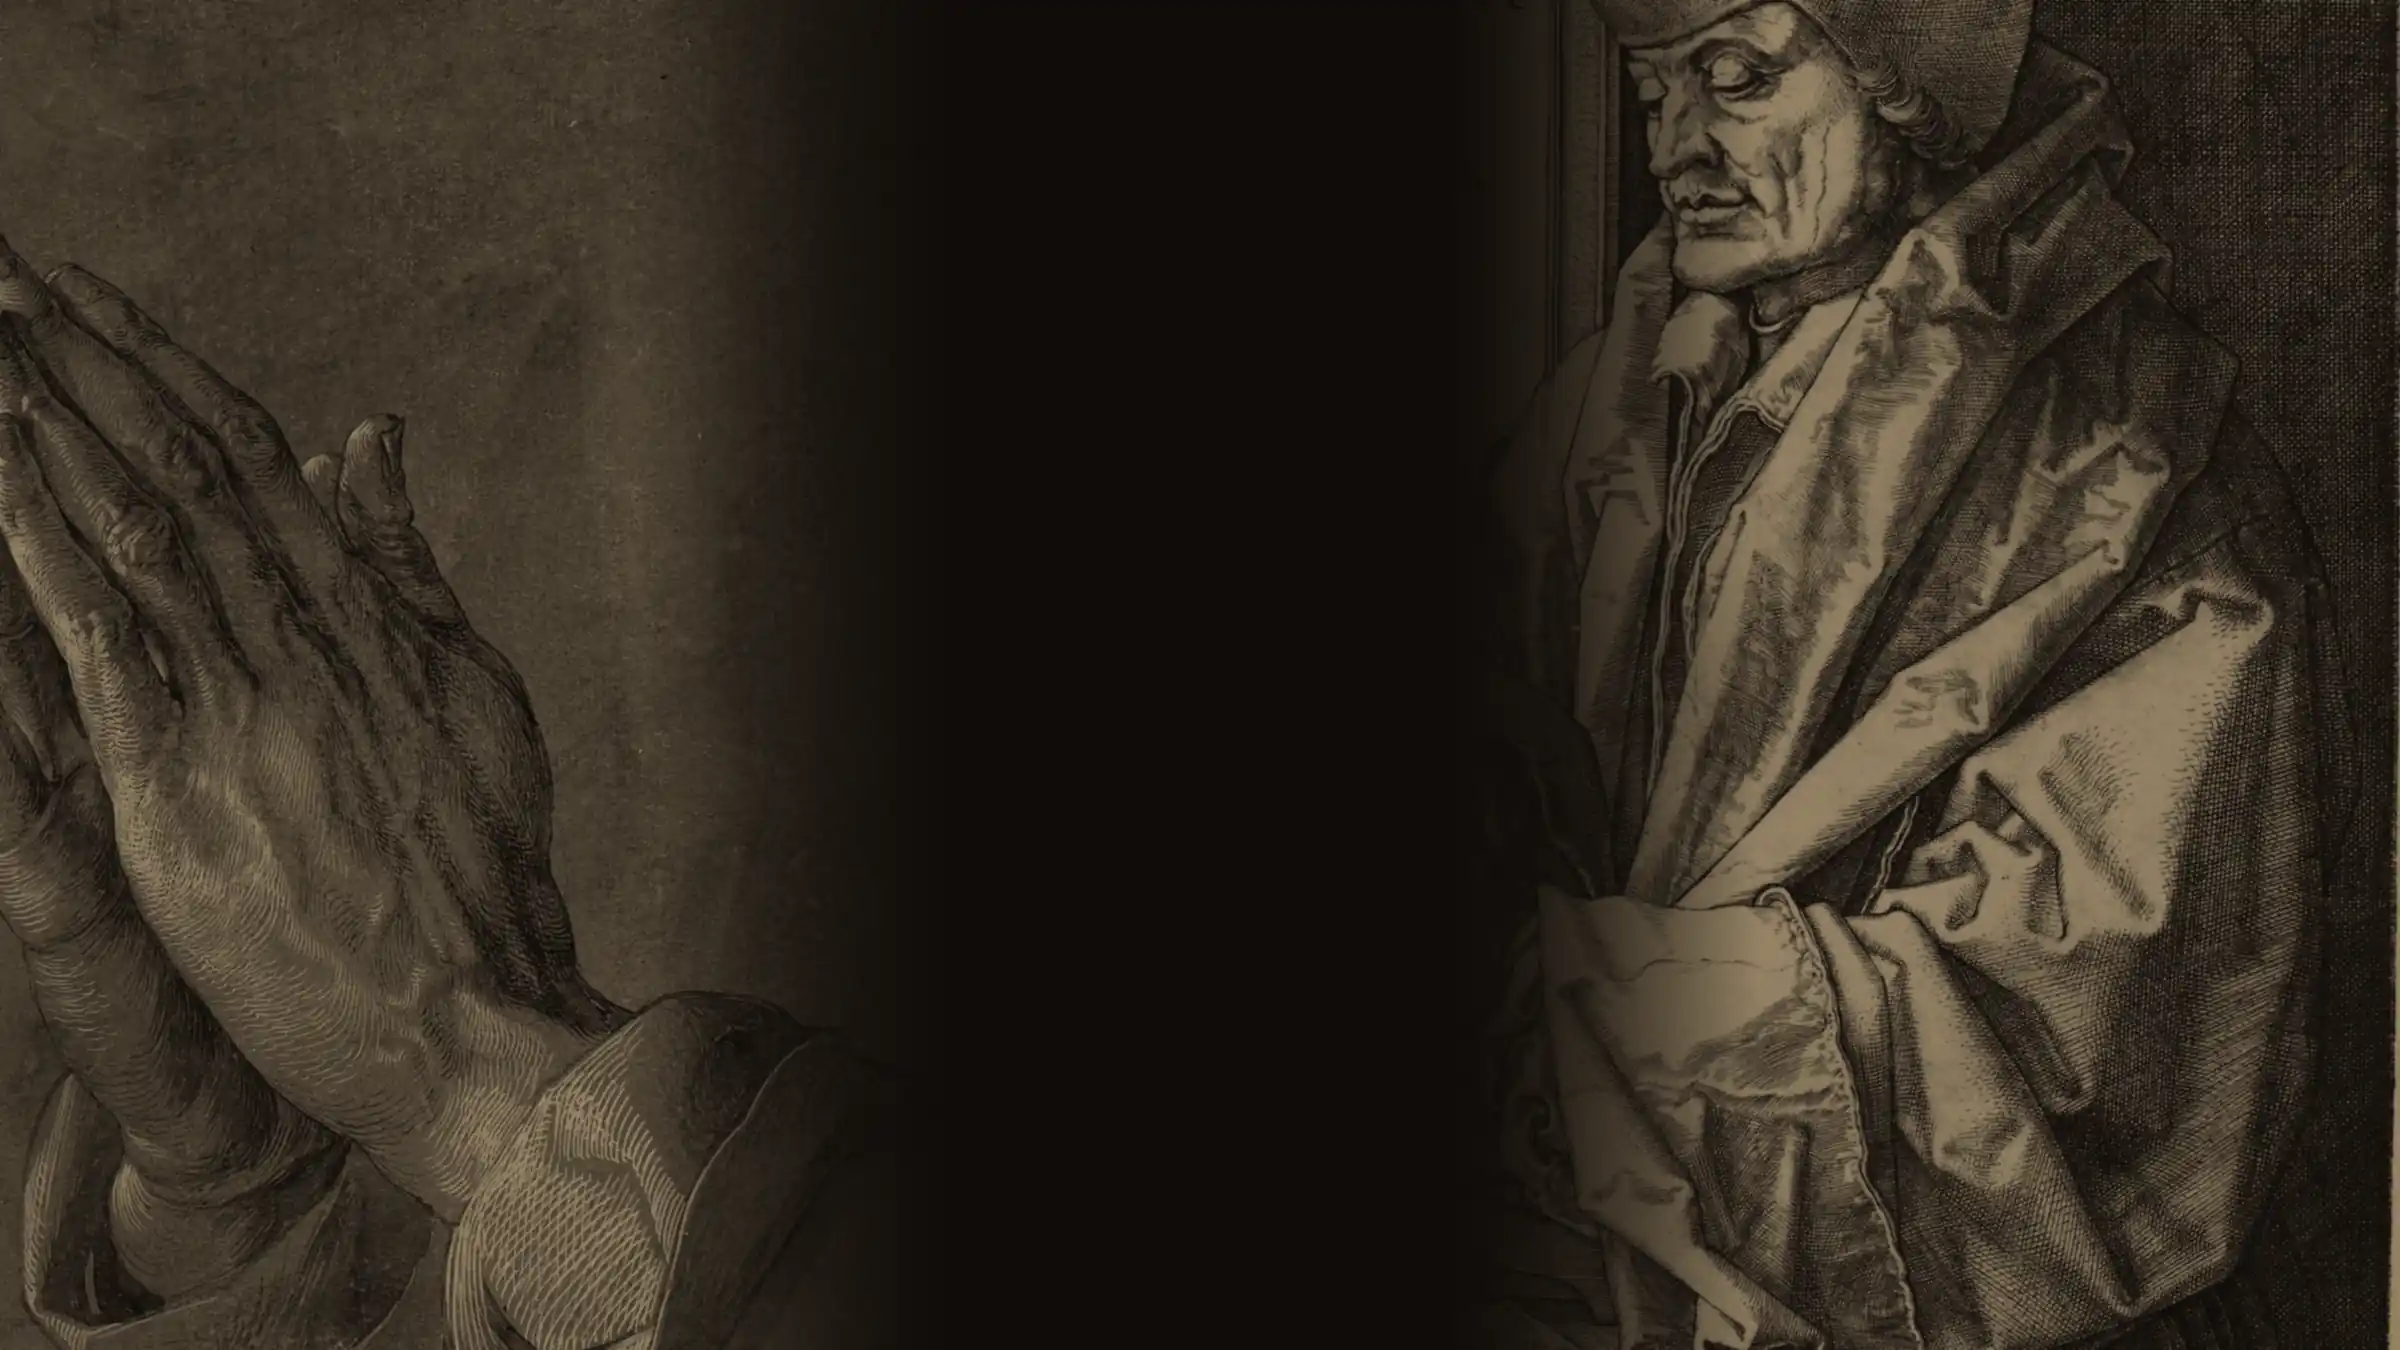
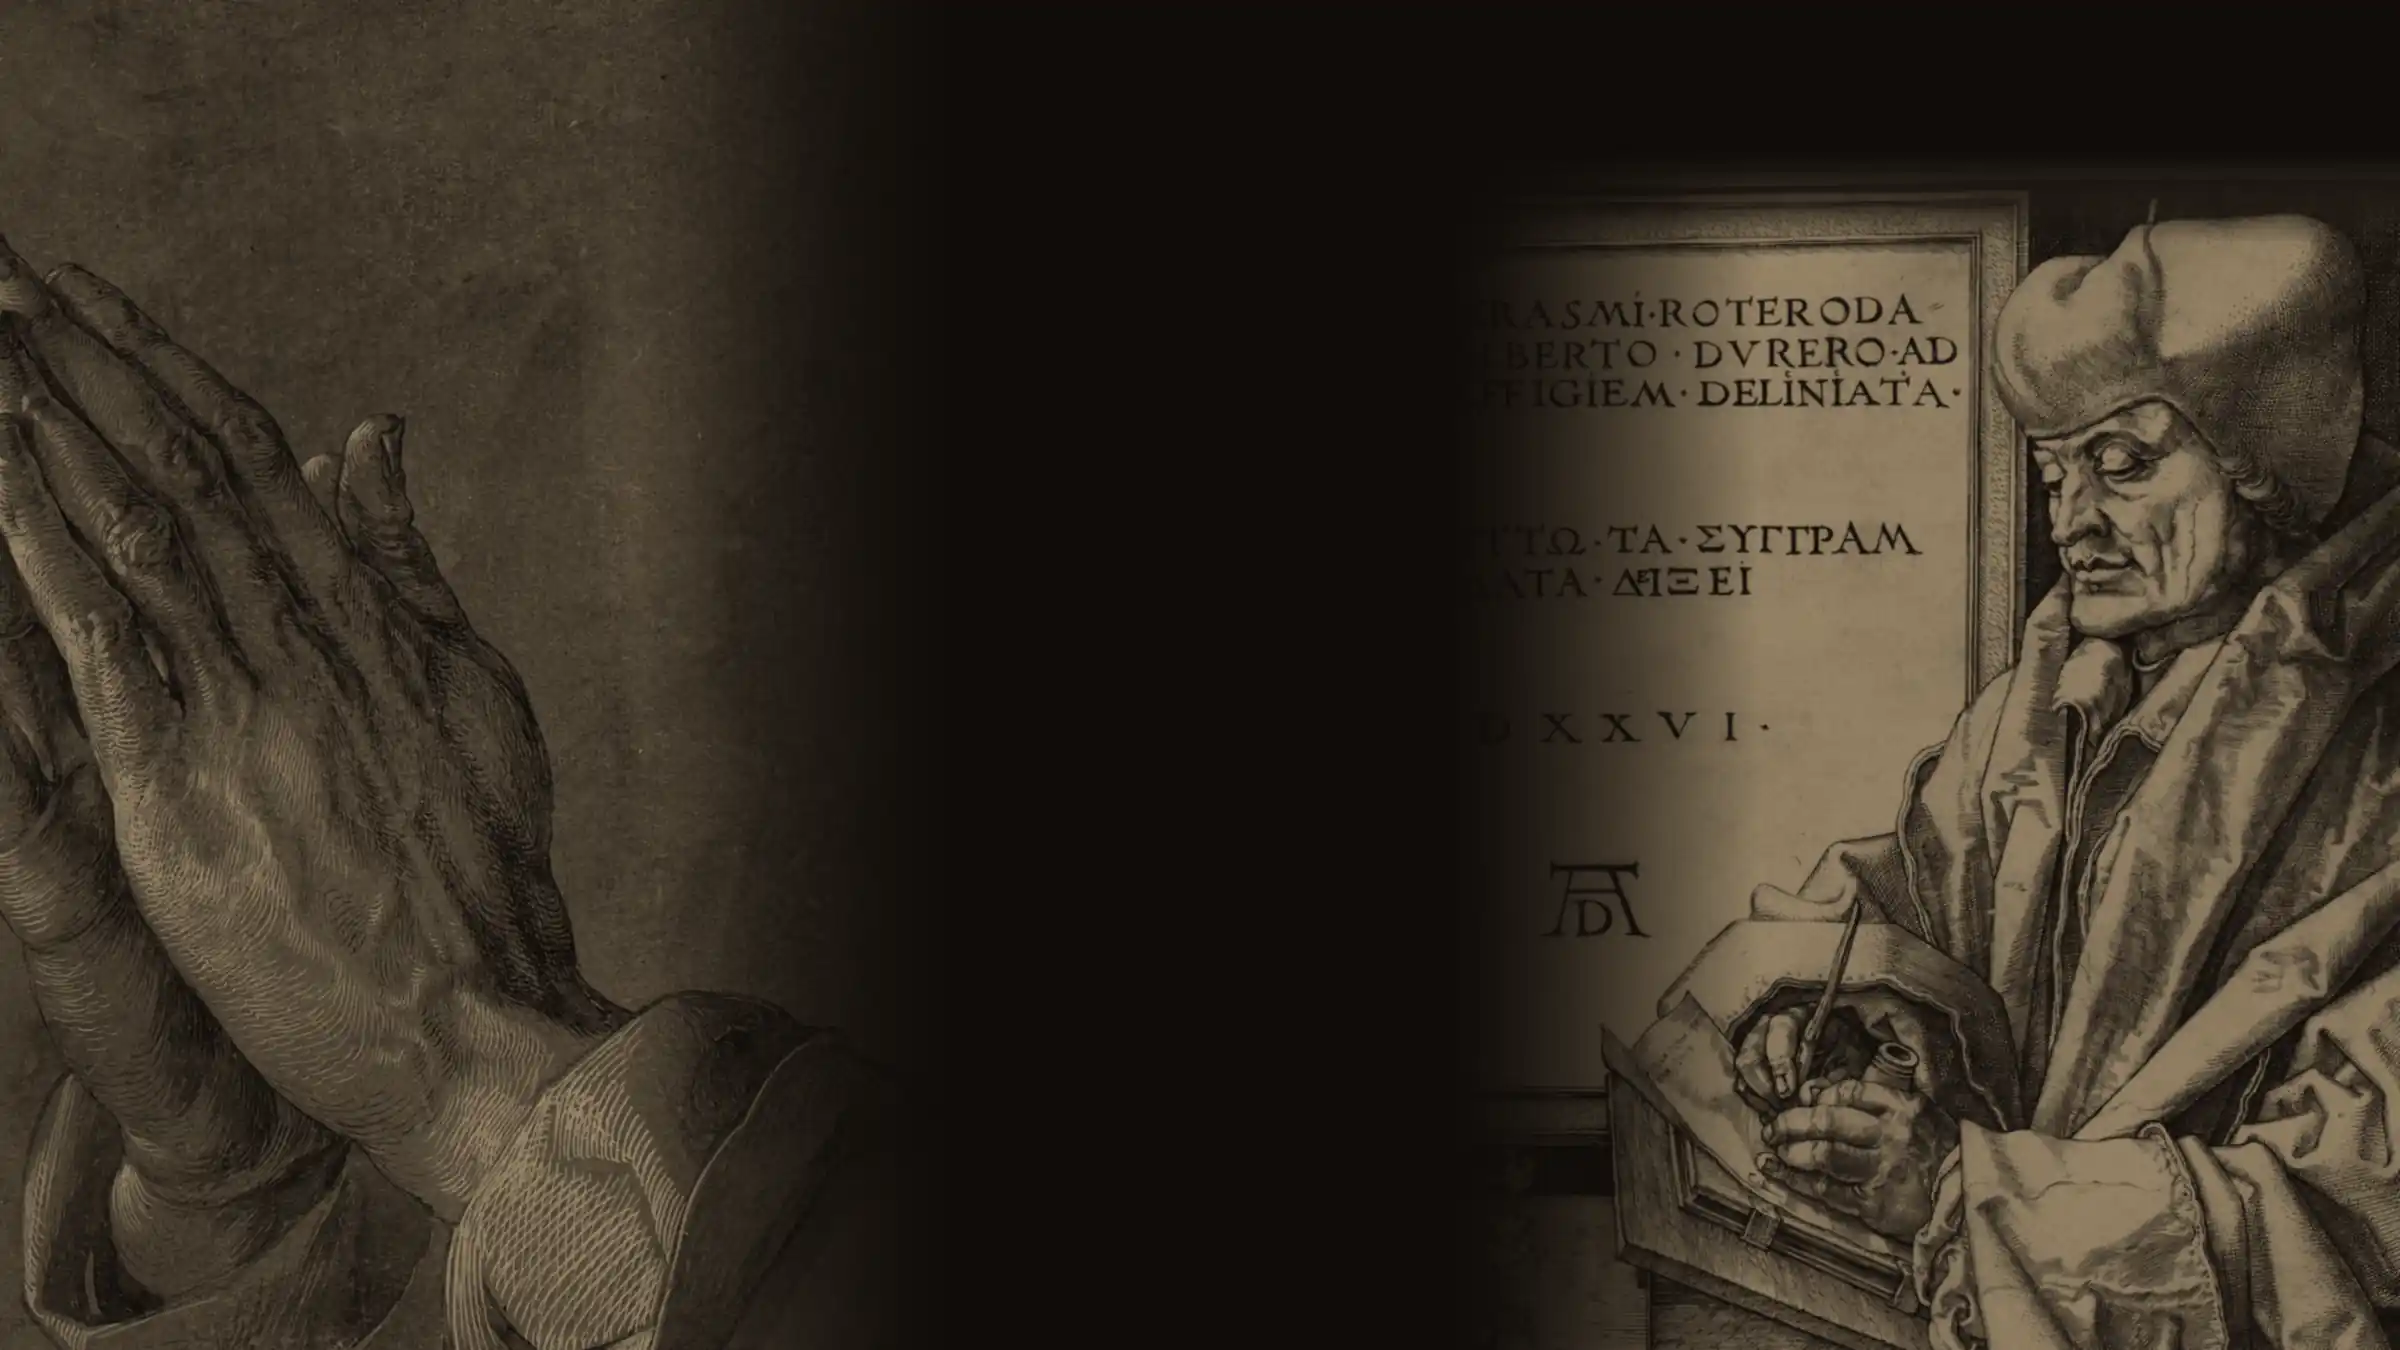
fix(art): QA 5707271934 — Erasmus whole below the header, both Dürers whole in the margins at the real column, You 1600 file at 1600x1000, face-box test
- Messages right panel re-cropped so Erasmus's whole head sits below the sticky header at 1600-2560.
- You: the boy (Self-Portrait at Thirteen) moved into the left margin and Dürer 1500 into the right,
  measured against the real 60rem/18px column; where a panel runs past the scan it fades to the dark ground.
- plate-you-A.webp now ships at 1600x1000 (Lanczos from the 1453px scan) instead of 1365x853.
- art-two-sides.test: head boxes for Messages, You, Groups, Desk (from 1600) and Week (from 1920) must sit whole
  in a margin, below the header, off the column (read from the sheets) and the fade at 1600/1700/1920/2560.

Changed region(s): [[0.6562, 0.0, 1.0, 1.0]]

diff --git a/src/lib/board/art-two-sides.test.ts b/src/lib/board/art-two-sides.test.ts
@@ -17,7 +17,8 @@ const sheets = [...root.matchAll(/href: "\/([a-z-]+\.css)"/g)].map((m) => read(`
 const ON_LIST = /^(Gustave Doré|John Martin|Albrecht Dürer|Arthur Rackham|John Bauer)$/;
 
 type Panel = { artist: string; work: string; box: [number, number, number, number] };
-/** What each edge of each wide plate shows: source work and crop box (x0, y0, x1, y1, as fractions of the scan). */
+/** What each edge of each wide plate shows: source work and crop box (x0, y0, x1, y1, as fractions of the scan;
+ *  below 0 or above 1 where the panel runs past the scan and fades to the dark ground). */
 const PLATES: Record<string, { left: Panel; right: Panel }> = {
   "plate-week-A-2400.webp": {
     left: { artist: "Gustave Doré", work: "Jacob's Dream", box: [0.109, 0.5, 0.55, 1.0] },
@@ -45,11 +46,11 @@ const PLATES: Record<string, { left: Panel; right: Panel }> = {
   },
   "plate-messages-A-2400.webp": {
     left: { artist: "Albrecht Dürer", work: "Praying Hands", box: [0.138, 0.1, 0.862, 0.8] },
-    right: { artist: "Albrecht Dürer", work: "Erasmus of Rotterdam", box: [0.487, 0.125, 0.993, 0.675] },
+    right: { artist: "Albrecht Dürer", work: "Erasmus of Rotterdam", box: [0.202, -0.075, 0.823, 0.6] },
   },
   "plate-you-A-2400.webp": {
-    left: { artist: "Albrecht Dürer", work: "Self-Portrait at Thirteen", box: [0.171, 0.085, 0.73, 0.635] },
-    right: { artist: "Albrecht Dürer", work: "Self-Portrait, 1500", box: [0.179, 0.115, 0.621, 0.565] },
+    left: { artist: "Albrecht Dürer", work: "Self-Portrait at Thirteen", box: [0.14, -0.199, 1.608, 1.246] },
+    right: { artist: "Albrecht Dürer", work: "Self-Portrait, 1500", box: [-0.026, -0.037, 0.688, 0.689] },
   },
   "plate-desk-A-2400.webp": {
     left: { artist: "Gustave Doré", work: "The Judgment of Solomon", box: [0.338, 0, 0.732, 0.45] },
@@ -159,4 +160,82 @@ test("the credit chip names both works where the right edge is a second work", (
   assert.deepEqual([narrow.narrow === "none", narrow.wide], [false, "none"]);
   const app = read("src/components/board/app.tsx");
   assert.match(app, /<p className="pc-credit pc-wide">Plates: \{wideCaption\}<\/p>/);
+});
+
+/**
+ * QA 5707271934 S4: where the faces are. Each wide plate's key heads, in canvas pixels of the 2400x1350
+ * file, and the narrowest 16:9 screen at which each must sit whole in a margin: clear of the real text
+ * column (width taken from the sheets: `min(60rem,100%)` at the root font size the clamp in styles.css
+ * gives), below the sticky header, inside the screen, and clear of the panel's fade into the dark middle.
+ * The plate is drawn `center 35%/cover`, also read from the sheets. Boxes were measured on the files.
+ */
+const HEADER_PX = 115; // the sticky header's height, measured in the real app at 1600-2560
+const HEADS: Record<string, { who: string; box: [number, number, number, number]; from: number }[]> = {
+  "plate-messages-A-2400.webp": [{ who: "Erasmus", box: [2020, 210, 2150, 570], from: 1600 }],
+  "plate-you-A-2400.webp": [
+    { who: "the boy at thirteen", box: [20, 260, 330, 580], from: 1600 },
+    { who: "Dürer at twenty-eight", box: [2020, 400, 2320, 880], from: 1600 },
+  ],
+  "plate-groups-A-2400.webp": [
+    { who: "the man in the black cap (left)", box: [170, 340, 260, 490], from: 1600 },
+    { who: "the man in the black cap (right)", box: [2030, 500, 2140, 620], from: 1600 },
+  ],
+  "plate-desk-A-2400.webp": [
+    { who: "the woman in the turban", box: [130, 400, 230, 560], from: 1600 },
+    { who: "the mother", box: [2050, 330, 2240, 520], from: 1600 },
+  ],
+  "plate-week-A-2400.webp": [{ who: "Jacob", box: [400, 420, 520, 520], from: 1920 }],
+};
+
+const rootPx = (vw: number) => {
+  const css = read("src/styles.css");
+  const m = css.match(/font-size:\s*clamp\((\d+)px,\s*([\d.]+)rem\s*\+\s*([\d.]+)vw,\s*(\d+)px\)/);
+  assert.ok(m, "root font-size clamp not found in styles.css");
+  const [lo, rem, vwk, hi] = m.slice(1).map(Number);
+  return Math.min(hi, Math.max(lo, rem * 16 + (vwk * vw) / 100));
+};
+const column = (vw: number) => {
+  const m = sheets.match(/@media \(min-width:(\d+)px\)\{\[data-entered\] \.shell-body>main\{width:min\(([\d.]+)rem,100%\)/);
+  assert.ok(m, "the column width rule is not in the sheets");
+  return vw >= Number(m[1]) ? Math.min(Number(m[2]) * rootPx(vw), vw) : vw;
+};
+
+test("the plate is drawn center 35% / cover, which the face boxes assume", () => {
+  assert.match(sheets, /\[data-entered\]>\.plate-ground\{background:var\(--pc-plate\) center 35%\/cover no-repeat/);
+  assert.equal(column(1600), 1080, "the real column is 60rem at 18px");
+});
+
+for (const [vw, vh] of [[1600, 900], [1700, 956], [1920, 1080], [2560, 1440]] as const) {
+  test(`at ${vw}x${vh} every listed head sits whole in a margin, below the header, off the column and the fade`, () => {
+    const s = Math.max(vw / 2400, vh / 1350);
+    const ox = (vw - 2400 * s) * 0.5;
+    const oy = (vh - 1350 * s) * 0.35;
+    const toX = (px: number) => (px - ox) / s; // screen x to canvas x
+    const col = column(vw);
+    const leftEnd = toX((vw - col) / 2);
+    const rightStart = toX((vw + col) / 2);
+    const top = (HEADER_PX - oy) / s;
+    const bottom = (vh - oy) / s;
+    for (const [file, heads] of Object.entries(HEADS)) {
+      for (const { who, box, from } of heads) {
+        if (vw < from) continue;
+        const [x0, y0, x1, y1] = box;
+        const left = x1 <= 960;
+        const where = `${file} ${who} [${box}] at ${vw}x${vh}`;
+        if (left) {
+          assert.ok(x0 >= toX(0) && x1 <= leftEnd, `${where}: not whole in the left margin (canvas ${Math.round(toX(0))}-${Math.round(leftEnd)})`);
+          assert.ok(x1 <= 640, `${where}: runs into the fade at 640`);
+        } else {
+          assert.ok(x0 >= 1440, `${where}: in the dark middle`);
+          assert.ok(x0 >= rightStart && x1 <= toX(vw), `${where}: not whole in the right margin (canvas ${Math.round(rightStart)}-${Math.round(toX(vw))})`);
+          assert.ok(x0 >= 1760, `${where}: runs into the fade at 1760`);
+        }
+        assert.ok(y0 >= top && y1 <= bottom, `${where}: under the header or off the screen (canvas ${Math.round(top)}-${Math.round(bottom)})`);
+      }
+    }
+  });
+}
+
+test("every wide plate's heads are on the manifest's two-sided list", () => {
+  for (const f of Object.keys(HEADS)) assert.ok(PLATES[f], f);
 });
